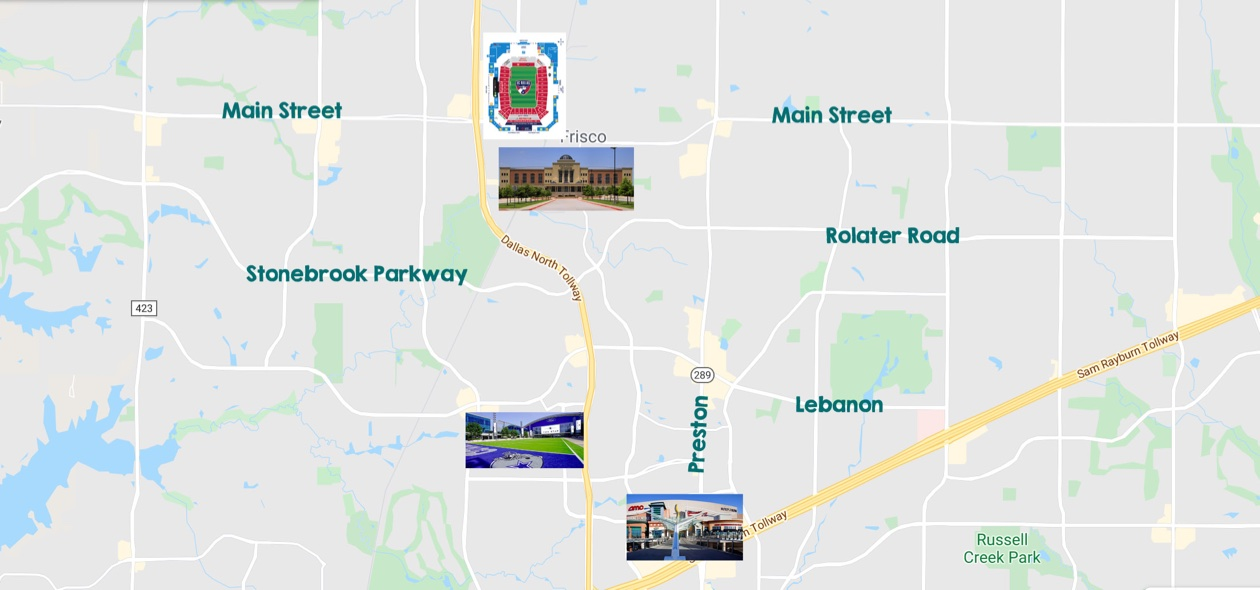
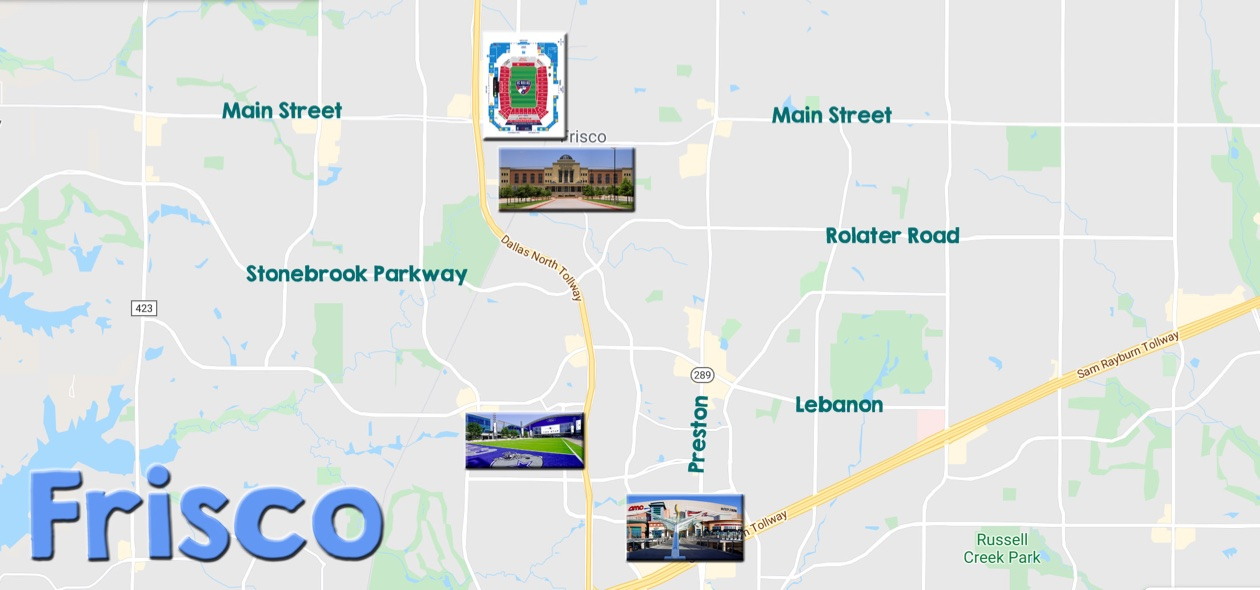
2.4 Locate Places

diff --git a/index.hyperesources/index_hype_generated_script.js b/index.hyperesources/index_hype_generated_script.js
@@ -3,5 +3,5 @@
 (function(){(function k(){function l(a,b,d){var c=!1;null==window[a]&&(null==window[b]?(window[b]=[],window[b].push(k),a=document.getElementsByTagName("head")[0],b=document.createElement("script"),c=h,false==!0&&(c=""),b.type="text/javascript",b.src=c+"/"+d,a.appendChild(b)):window[b].push(k),c=!0);return c}var h="index.hyperesources",c="index",e="index_hype_container";if(false==!1)try{for(var f=document.getElementsByTagName("script"),
 a=0;a<f.length;a++){var b=f[a].src,d=null!=b?b.indexOf("/index_hype_generated_script.js"):-1;if(-1!=d){h=b.substr(0,d);break}}}catch(n){}if(false==!1&&(a=navigator.userAgent.match(/MSIE (\d+\.\d+)/),a=parseFloat(a&&a[1])||null,a=l("HYPE_600","HYPE_dtl_600",!0==(null!=a&&10>a||false==!0)?"HYPE-600.full.min.js":"HYPE-600.thin.min.js"),false==!0&&(a=a||l("HYPE_w_600","HYPE_wdtl_600","HYPE-600.waypoints.min.js")),a))return;f=window.HYPE.documents;
 if(null!=f[c]){b=1;a=c;do c=""+a+"-"+b++;while(null!=f[c]);d=document.getElementsByTagName("div");b=!1;for(a=0;a<d.length;a++)if(d[a].id==e&&null==d[a].getAttribute("HYP_dn")){var b=1,g=e;do e=""+g+"-"+b++;while(null!=document.getElementById(e));d[a].id=e;b=!0;break}if(!1==b)return}b=[];b=[];d={};g={};for(a=0;a<b.length;a++)try{g[b[a].identifier]=b[a].name,d[b[a].name]=eval("(function(){return "+b[a].source+"})();")}catch(m){window.console&&window.console.log(m),d[b[a].name]=
-function(){}}a=new HYPE_600(c,e,{"3":{p:1,n:"courthouse_2x.png",g:"7",o:true,t:"@2x"},"12":{p:1,n:"alamo.png",g:"20",o:true,t:"@1x"},"21":{p:1,n:"washington.png",g:"33",o:true,t:"@1x"},"4":{p:1,n:"toyota.png",g:"9",o:true,t:"@1x"},"30":{p:1,n:"drag_2x.png",g:"43",o:true,t:"@2x"},"13":{p:1,n:"alamo_2x.png",g:"20",o:true,t:"@2x"},"5":{p:1,n:"toyota_2x.png",g:"9",o:true,t:"@2x"},"22":{p:1,n:"washington_2x.png",g:"33",o:true,t:"@2x"},"6":{p:1,n:"mall.png",g:"13",o:true,t:"@1x"},"31":{p:1,n:"next.png",g:"47",t:"@1x"},"14":{p:1,n:"state%20capital.png",g:"22",o:true,t:"@1x"},"7":{p:1,n:"mall_2x.png",g:"13",o:true,t:"@2x"},"23":{p:1,n:"canada.png",g:"35",t:"@1x"},"32":{p:1,n:"go%20home.png",g:"51",o:true,t:"@1x"},"15":{p:1,n:"state%20capital_2x.png",g:"22",o:true,t:"@2x"},"8":{p:1,n:"the%20star.png",g:"11",o:true,t:"@1x"},"24":{p:1,n:"mexico.png",g:"37",t:"@1x"},"9":{p:1,n:"the%20star_2x.png",g:"11",o:true,t:"@2x"},"33":{p:1,n:"go%20home_2x.png",g:"51",o:true,t:"@2x"},"16":{p:1,n:"rio%20grande.png",g:"24",o:true,t:"@1x"},"25":{p:1,n:"grand%20canyon.png",g:"39",o:true,t:"@1x"},"17":{p:1,n:"rio%20grande_2x.png",g:"24",o:true,t:"@2x"},"26":{p:1,n:"grand%20canyon_2x.png",g:"39",o:true,t:"@2x"},"18":{p:1,n:"state%20fair.png",g:"26",o:true,t:"@1x"},"27":{p:1,n:"statue.png",g:"41",o:true,t:"@1x"},"19":{p:1,n:"state%20fair_2x.png",g:"26",o:true,t:"@2x"},"28":{p:1,n:"statue_2x.png",g:"41",o:true,t:"@2x"},"-1":{n:"PIE.htc"},"29":{p:1,n:"drag.png",g:"43",o:true,t:"@1x"},"-2":{n:"blank.gif"},"10":{p:1,n:"texas.jpg",g:"18",o:true,t:"@1x"},"0":{p:1,n:"Frisco%20Map.jpg",g:"5",o:true,t:"@1x"},"1":{p:1,n:"Frisco%20Map_2x.jpg",g:"5",o:true,t:"@2x"},"11":{p:1,n:"texas_2x.jpg",g:"18",o:true,t:"@2x"},"2":{p:1,n:"courthouse.png",g:"7",o:true,t:"@1x"},"20":{p:1,n:"usa.jpg",g:"31",t:"@1x"}},h,[],d,[{n:"Untitled Scene",o:"1",X:[0]},{n:"Untitled Scene 2",o:"15",X:[1]},{n:"Untitled Scene 3",o:"28",X:[2]}],[{o:"3",p:"600px",cA:false,Y:1260,Z:650,L:[],c:"#FFFFFF",bY:1,d:1260,U:{},T:{kTimelineDefaultIdentifier:{i:"kTimelineDefaultIdentifier",n:"Main Timeline",z:0,b:[],a:[],f:30}},bZ:180,O:["58","56","53","57","55","54","59"],n:"Untitled Layout","_":0,v:{"55":{h:"9",p:"no-repeat",x:"visible",a:835,q:"100% 100%",b:185,j:"absolute",bN:{a:[{p:11}]},z:5,k:"div",dB:"img",d:70,c:409,r:"inline"},"58":{h:"43",p:"no-repeat",x:"visible",a:5,q:"100% 100%",b:10,j:"absolute",dB:"img",z:4,k:"div",c:422,d:109,r:"inline"},"53":{h:"5",p:"no-repeat",x:"visible",a:0,q:"100% 100%",b:39,j:"absolute",dB:"img",z:1,k:"div",c:1260,d:590.58930190389844,r:"inline"},"56":{h:"11",p:"no-repeat",x:"visible",a:1038,q:"100% 100%",b:23,j:"absolute",bN:{a:[{p:11}]},z:6,k:"div",dB:"img",d:70,c:179,r:"inline"},"59":{h:"47",p:"no-repeat",x:"visible",a:944,q:"100% 100%",b:544,j:"absolute",dB:"img",aA:{a:[{d:1.1000000000000001,p:1,g:1,f:1}]},k:"div",z:2,d:106,c:295,r:"inline",aP:"pointer"},"54":{h:"7",p:"no-repeat",x:"visible",a:927,q:"100% 100%",b:276,j:"absolute",bN:{a:[{p:11}]},z:3,k:"div",dB:"img",d:67,c:312,r:"inline"},"57":{h:"13",p:"no-repeat",x:"visible",a:965,q:"100% 100%",b:101,j:"absolute",bN:{a:[{p:11}]},z:7,k:"div",dB:"img",d:67,c:269,r:"inline"}}},{o:"17",p:"600px",cA:false,Y:1260,Z:650,L:[],c:"#FFFFFF",bY:1,d:1260,U:{},T:{kTimelineDefaultIdentifier:{i:"kTimelineDefaultIdentifier",n:"Main Timeline",z:0,b:[],a:[],f:30}},bZ:180,O:["60","65","61","62","63","66","64"],n:"Untitled Layout","_":1,v:{"65":{h:"43",p:"no-repeat",x:"visible",a:5,q:"100% 100%",b:10,j:"absolute",dB:"img",z:5,k:"div",c:422,d:109,r:"inline"},"60":{h:"18",p:"no-repeat",x:"visible",a:233,q:"100% 100%",b:0,j:"absolute",dB:"img",z:1,k:"div",c:1026.6929133858268,d:650,r:"inline"},"63":{h:"24",bN:{a:[{p:11}]},x:"visible",a:30,q:"100% 100%",b:453,j:"absolute",dB:"img",z:4,k:"div",p:"no-repeat",d:77,c:341,r:"inline",aP:"pointer"},"66":{h:"47",p:"no-repeat",x:"visible",a:944,q:"100% 100%",b:544,j:"absolute",dB:"img",aA:{a:[{d:1.1000000000000001,p:1,g:1,f:1}]},k:"div",z:6,d:106,c:295,r:"inline",aP:"pointer"},"61":{h:"20",bN:{a:[{p:11}]},x:"visible",a:36,q:"100% 100%",b:251,j:"absolute",dB:"img",z:2,k:"div",p:"no-repeat",d:81,c:234,r:"inline",aP:"pointer"},"64":{h:"26",bN:{a:[{p:11}]},x:"visible",a:24,q:"100% 100%",b:559,j:"absolute",dB:"img",z:7,k:"div",p:"no-repeat",d:75,c:404,r:"inline",aP:"pointer"},"62":{h:"22",bN:{a:[{p:11}]},x:"visible",a:30,q:"100% 100%",b:361,j:"absolute",dB:"img",z:3,k:"div",p:"no-repeat",d:75,c:274,r:"inline",aP:"pointer"}}},{o:"30",p:"600px",cA:false,Y:1260,Z:650,L:[],c:"#FFFFFF",bY:1,d:1260,U:{},T:{kTimelineDefaultIdentifier:{i:"kTimelineDefaultIdentifier",n:"Main Timeline",z:0,b:[],a:[],f:30}},bZ:180,O:["67","73","74","68","69","70","71","72"],n:"Untitled Layout","_":2,v:{"73":{h:"43",p:"no-repeat",x:"visible",a:5,q:"100% 100%",b:10,j:"absolute",dB:"img",z:3,k:"div",c:422,d:109,r:"inline"},"68":{h:"33",p:"no-repeat",x:"visible",a:24,q:"100% 100%",b:166,j:"absolute",bN:{a:[{p:11}]},z:2,k:"div",dB:"img",d:73,c:287,r:"inline"},"71":{h:"39",p:"no-repeat",x:"visible",a:34,q:"100% 100%",b:478,j:"absolute",bN:{a:[{p:11}]},z:7,k:"div",dB:"img",d:77,c:287,r:"inline"},"74":{h:"51",p:"no-repeat",x:"visible",a:1056,q:"100% 100%",b:16,j:"absolute",dB:"img",aA:{a:[{d:1.1000000000000001,p:1,g:1,e:"1"}]},k:"div",z:9,d:60,c:168,r:"inline",aP:"pointer"},"69":{h:"35",p:"no-repeat",x:"visible",a:37,q:"100% 100%",b:255,j:"absolute",bN:{a:[{p:11}]},z:5,k:"div",dB:"img",d:105,c:229,r:"inline"},"72":{h:"41",p:"no-repeat",x:"visible",a:24,q:"100% 100%",b:561,j:"absolute",bN:{a:[{p:11}]},z:8,k:"div",dB:"img",d:73,c:342,r:"inline"},"67":{h:"31",p:"no-repeat",x:"visible",a:321,q:"100% 100%",b:2,j:"absolute",dB:"img",z:1,k:"div",c:923,d:632,r:"inline"},"70":{h:"37",p:"no-repeat",x:"visible",a:37,q:"100% 100%",b:366,j:"absolute",bN:{a:[{p:11}]},z:6,k:"div",dB:"img",d:106,c:223,r:"inline"}}}],{},g,{},null,false,true,-1,true,true,false,true);f[c]=a.API;document.getElementById(e).setAttribute("HYP_dn",
+function(){}}a=new HYPE_600(c,e,{"3":{p:1,n:"toyota_2x.png",g:"9",o:true,t:"@2x"},"12":{p:1,n:"rio%20grande.png",g:"24",o:true,t:"@1x"},"21":{p:1,n:"grand%20canyon_2x.png",g:"39",o:true,t:"@2x"},"4":{p:1,n:"mall.png",g:"13",o:true,t:"@1x"},"30":{p:1,n:"Frisco%20Map_2x.jpg",g:"53",o:true,t:"@2x"},"13":{p:1,n:"rio%20grande_2x.png",g:"24",o:true,t:"@2x"},"5":{p:1,n:"mall_2x.png",g:"13",o:true,t:"@2x"},"22":{p:1,n:"statue.png",g:"41",o:true,t:"@1x"},"6":{p:1,n:"the%20star.png",g:"11",o:true,t:"@1x"},"31":{p:1,n:"texas2.jpg",g:"55",o:true,t:"@1x"},"14":{p:1,n:"state%20fair.png",g:"26",o:true,t:"@1x"},"7":{p:1,n:"the%20star_2x.png",g:"11",o:true,t:"@2x"},"23":{p:1,n:"statue_2x.png",g:"41",o:true,t:"@2x"},"32":{p:1,n:"texas2_2x.jpg",g:"55",o:true,t:"@2x"},"15":{p:1,n:"state%20fair_2x.png",g:"26",o:true,t:"@2x"},"8":{p:1,n:"alamo.png",g:"20",o:true,t:"@1x"},"24":{p:1,n:"drag.png",g:"43",o:true,t:"@1x"},"9":{p:1,n:"alamo_2x.png",g:"20",o:true,t:"@2x"},"33":{p:1,n:"usa2.jpg",g:"57",t:"@1x"},"16":{p:1,n:"washington.png",g:"33",o:true,t:"@1x"},"25":{p:1,n:"drag_2x.png",g:"43",o:true,t:"@2x"},"17":{p:1,n:"washington_2x.png",g:"33",o:true,t:"@2x"},"26":{p:1,n:"next.png",g:"47",t:"@1x"},"18":{p:1,n:"canada.png",g:"35",t:"@1x"},"27":{p:1,n:"go%20home.png",g:"51",o:true,t:"@1x"},"19":{p:1,n:"mexico.png",g:"37",t:"@1x"},"28":{p:1,n:"go%20home_2x.png",g:"51",o:true,t:"@2x"},"-1":{n:"PIE.htc"},"29":{p:1,n:"Frisco%20Map.jpg",g:"53",o:true,t:"@1x"},"-2":{n:"blank.gif"},"10":{p:1,n:"state%20capital.png",g:"22",o:true,t:"@1x"},"0":{p:1,n:"courthouse.png",g:"7",o:true,t:"@1x"},"1":{p:1,n:"courthouse_2x.png",g:"7",o:true,t:"@2x"},"11":{p:1,n:"state%20capital_2x.png",g:"22",o:true,t:"@2x"},"2":{p:1,n:"toyota.png",g:"9",o:true,t:"@1x"},"20":{p:1,n:"grand%20canyon.png",g:"39",o:true,t:"@1x"}},h,[],d,[{n:"Untitled Scene",o:"1",X:[0]},{n:"Untitled Scene 2",o:"15",X:[1]},{n:"Untitled Scene 3",o:"28",X:[2]}],[{o:"3",p:"600px",cA:false,Y:1260,Z:650,L:[],c:"#FFFFFF",bY:1,d:1260,U:{},T:{kTimelineDefaultIdentifier:{i:"kTimelineDefaultIdentifier",n:"Main Timeline",z:0,b:[],a:[],f:30}},bZ:180,O:["63","61","65","62","60","59","64"],n:"Untitled Layout","_":0,v:{"65":{h:"53",p:"no-repeat",x:"visible",a:0,q:"100% 100%",b:29,j:"absolute",dB:"img",z:2,k:"div",c:1260,d:590.58930190389844,r:"inline"},"60":{h:"9",p:"no-repeat",x:"visible",a:835,q:"100% 100%",b:185,j:"absolute",bN:{a:[{p:11}]},z:6,k:"div",dB:"img",d:70,c:409,r:"inline"},"63":{h:"43",p:"no-repeat",x:"visible",a:5,q:"100% 100%",b:10,j:"absolute",dB:"img",z:5,k:"div",c:422,d:109,r:"inline"},"61":{h:"11",p:"no-repeat",x:"visible",a:1038,q:"100% 100%",b:23,j:"absolute",bN:{a:[{p:11}]},z:7,k:"div",dB:"img",d:70,c:179,r:"inline"},"64":{h:"47",p:"no-repeat",x:"visible",a:944,q:"100% 100%",b:544,j:"absolute",dB:"img",aA:{a:[{d:1.1000000000000001,p:1,g:1,f:1}]},k:"div",z:3,d:106,c:295,r:"inline",aP:"pointer"},"59":{h:"7",p:"no-repeat",x:"visible",a:927,q:"100% 100%",b:276,j:"absolute",bN:{a:[{p:11}]},z:4,k:"div",dB:"img",d:67,c:312,r:"inline"},"62":{h:"13",p:"no-repeat",x:"visible",a:965,q:"100% 100%",b:101,j:"absolute",bN:{a:[{p:11}]},z:8,k:"div",dB:"img",d:67,c:269,r:"inline"}}},{o:"17",p:"600px",cA:false,Y:1260,Z:650,L:[],c:"#FFFFFF",bY:1,d:1260,U:{},T:{kTimelineDefaultIdentifier:{i:"kTimelineDefaultIdentifier",n:"Main Timeline",z:0,b:[],a:[],f:30}},bZ:180,O:["72","70","66","67","68","71","69"],n:"Untitled Layout","_":1,v:{"68":{h:"24",bN:{a:[{p:11}]},x:"visible",a:30,q:"100% 100%",b:453,j:"absolute",dB:"img",z:5,k:"div",p:"no-repeat",d:77,c:341,r:"inline",aP:"pointer"},"71":{h:"47",p:"no-repeat",x:"visible",a:944,q:"100% 100%",b:544,j:"absolute",dB:"img",aA:{a:[{d:1.1000000000000001,p:1,g:1,f:1}]},k:"div",z:7,d:106,c:295,r:"inline",aP:"pointer"},"66":{h:"20",bN:{a:[{p:11}]},x:"visible",a:36,q:"100% 100%",b:251,j:"absolute",dB:"img",z:3,k:"div",p:"no-repeat",d:81,c:234,r:"inline",aP:"pointer"},"69":{h:"26",bN:{a:[{p:11}]},x:"visible",a:24,q:"100% 100%",b:559,j:"absolute",dB:"img",z:8,k:"div",p:"no-repeat",d:75,c:404,r:"inline",aP:"pointer"},"72":{h:"55",p:"no-repeat",x:"visible",a:233,q:"100% 100%",b:0,j:"absolute",dB:"img",z:2,k:"div",c:1026.6929133858268,d:650,r:"inline"},"67":{h:"22",bN:{a:[{p:11}]},x:"visible",a:30,q:"100% 100%",b:361,j:"absolute",dB:"img",z:4,k:"div",p:"no-repeat",d:75,c:274,r:"inline",aP:"pointer"},"70":{h:"43",p:"no-repeat",x:"visible",a:5,q:"100% 100%",b:10,j:"absolute",dB:"img",z:6,k:"div",c:422,d:109,r:"inline"}}},{o:"30",p:"600px",cA:false,Y:1260,Z:650,L:[],c:"#FFFFFF",bY:1,d:1260,U:{},T:{kTimelineDefaultIdentifier:{i:"kTimelineDefaultIdentifier",n:"Main Timeline",z:0,b:[],a:[],f:30}},bZ:180,O:["80","78","79","73","74","75","76","77"],n:"Untitled Layout","_":2,v:{"78":{h:"43",p:"no-repeat",x:"visible",a:5,q:"100% 100%",b:10,j:"absolute",dB:"img",z:4,k:"div",c:422,d:109,r:"inline"},"73":{h:"33",p:"no-repeat",x:"visible",a:24,q:"100% 100%",b:166,j:"absolute",bN:{a:[{p:11}]},z:3,k:"div",dB:"img",d:73,c:287,r:"inline"},"76":{h:"39",p:"no-repeat",x:"visible",a:34,q:"100% 100%",b:478,j:"absolute",bN:{a:[{p:11}]},z:8,k:"div",dB:"img",d:77,c:287,r:"inline"},"79":{h:"51",p:"no-repeat",x:"visible",a:1068,q:"100% 100%",b:16,j:"absolute",dB:"img",aA:{a:[{d:1.1000000000000001,p:1,g:1,e:"1"}]},k:"div",z:10,d:60,c:168,r:"inline",aP:"pointer"},"74":{h:"35",p:"no-repeat",x:"visible",a:37,q:"100% 100%",b:255,j:"absolute",bN:{a:[{p:11}]},z:6,k:"div",dB:"img",d:105,c:229,r:"inline"},"77":{h:"41",p:"no-repeat",x:"visible",a:24,q:"100% 100%",b:561,j:"absolute",bN:{a:[{p:11}]},z:9,k:"div",dB:"img",d:73,c:342,r:"inline"},"80":{h:"57",p:"no-repeat",x:"visible",a:300,q:"100% 100%",b:0,j:"absolute",dB:"img",z:2,k:"div",c:951,d:651,r:"inline"},"75":{h:"37",p:"no-repeat",x:"visible",a:37,q:"100% 100%",b:366,j:"absolute",bN:{a:[{p:11}]},z:7,k:"div",dB:"img",d:106,c:223,r:"inline"}}}],{},g,{},null,false,true,-1,true,true,false,true);f[c]=a.API;document.getElementById(e).setAttribute("HYP_dn",
 c);a.z_o(this.body)})();})();

diff --git a/index.html b/index.html
@@ -24,7 +24,7 @@
 	<!-- copy these lines to your document: -->
 
 	<div id="index_hype_container" style="margin:auto;position:relative;width:1260px;height:650px;overflow:hidden;">
-		<script type="text/javascript" charset="utf-8" src="index.hyperesources/index_hype_generated_script.js?68531"></script>
+		<script type="text/javascript" charset="utf-8" src="index.hyperesources/index_hype_generated_script.js?40172"></script>
 	</div>
 
 	<!-- end copy -->
